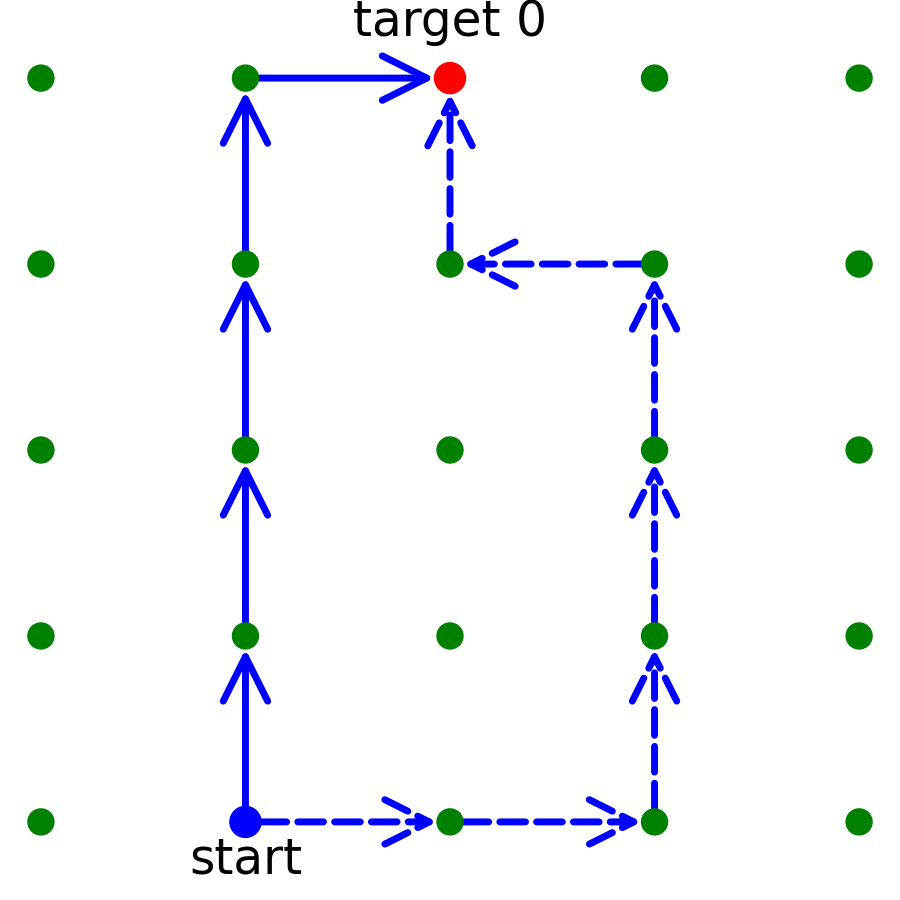
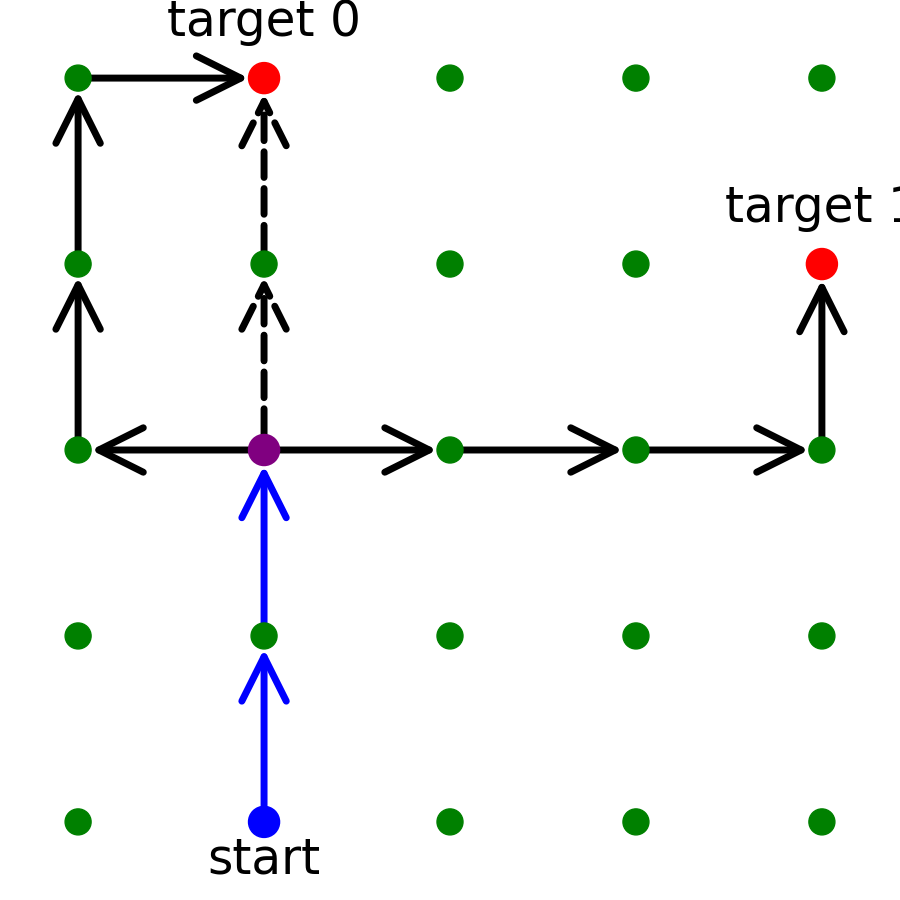
fixing dag example

diff --git a/examples.py b/examples.py
@@ -639,7 +639,7 @@ def dag(loc=None):
 
     # form graph
     s = (1, 0)
-    targets = [(2, 4)]
+    targets = [(1, 4), (4, 3)]
     G = nx.grid_2d_graph(5, 5)
     positions = {(x, y): (x, y) for x, y in G.nodes()}
     nx.set_node_attributes(G, positions, "pos")
@@ -652,20 +652,22 @@ def dag(loc=None):
     blue_edges = {
         ("start", (1, 1)),
         ((1, 1), (1, 2)),
-        ((1, 2), (1, 3)),
-        ((1, 3), (1, 4)),
-        ((1, 4), "target 0"),
+    }
+    black_edges = {
+        ((1, 2), (2, 2)),
+        ((2, 2), (3, 2)),
+        ((3, 2), (4, 2)),
+        ((4, 2), "target 1"),
+        ((1, 2), (0, 2)),
+        ((0, 2), (0, 3)),
+        ((0, 3), (0, 4)),
+        ((0, 4), "target 0")
     }
     dotted_edges = {
-        ("start", (2, 0)),
-        ((2, 0), (3, 0)),
-        ((3, 0), (3, 1)),
-        ((3, 1), (3, 2)),
-        ((3, 2), (3, 3)),
-        ((3, 3), (2, 3)),
-        ((2, 3), "target 0"),
+        ((1, 2), (1, 3)),
+        ((1, 3), "target 0"),
     }
-    keep = blue_edges | dotted_edges
+    keep = blue_edges | dotted_edges | black_edges
     for edge in list(t.edges()):
         if edge not in keep:
             t.remove_edge(*edge)
@@ -688,6 +690,9 @@ def dag(loc=None):
         elif "target" in node:
             colors.append(TARGET_COLOR)
             sizes.append(HIGHLIGHT_SIZE)
+        elif node == (1, 2):
+            colors.append(HIGHLIGHT_COLOR)
+            sizes.append(HIGHLIGHT_SIZE)
         else:
             colors.append(NODE_COLOR)
             sizes.append(NODE_SIZE)
@@ -701,8 +706,11 @@ def dag(loc=None):
         if e in blue_edges:
             edge_colors.append("blue")
             styles.append("solid")
+        elif e in black_edges:
+            edge_colors.append("black")
+            styles.append("solid")
         elif e in dotted_edges:
-            edge_colors.append("blue")
+            edge_colors.append("black")
             styles.append("dashed")
         else:
             edge_colors.append("white")
@@ -1003,14 +1011,14 @@ def main():
     # filename = "final_results/examples/last_deceptive.png"
     # last_deceptive_point(loc=filename)
 
-    filename = "final_results/examples/unique_distance.png"
-    unique_distance(loc=filename)
+    # filename = "final_results/examples/unique_distance.png"
+    # unique_distance(loc=filename)
 
     # filename = "final_results/examples/cycle.png"
     # cycle(loc=filename)
 
-    # filename = "final_results/examples/dag.png"
-    # dag(loc=filename)
+    filename = "final_results/examples/dag.png"
+    dag(loc=filename)
 
     # filename = "final_results/examples/reattach"
     # reattachment(loc=filename)
